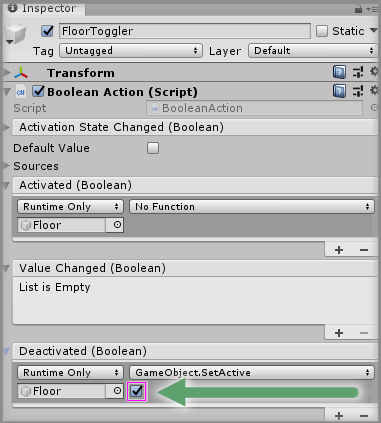
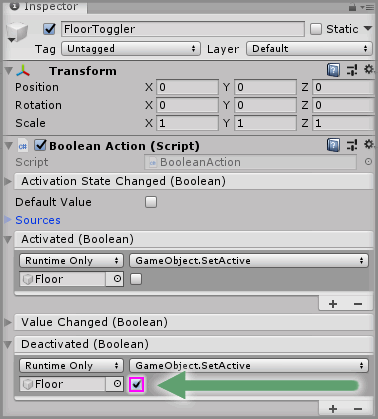
fix(HowToGuides): add missing step to proxy action doc
there was a part of step 2 missing from the document that didnt show
the function that needed to be selected. a couple of the images were
tidied up so that they didnt look as stretched.

diff --git a/Documentation/HowToGuides/CreatingProxyActionsAndChainingActions/README.md b/Documentation/HowToGuides/CreatingProxyActionsAndChainingActions/README.md
@@ -33,6 +33,10 @@ Click the `+` symbol in the bottom right corner of the `Activated` event paramet
 
 ![Creating The Boolean](assets/images/CreatingTheBoolean.png)
 
+Select a `Function` to perform when the `Activated` event is emitted. For this example, select `GameObject -> SetActive(bool)` (be sure not to select `Dynamic bool - SetActive` for this example).
+
+![Set Activated Listener To Game Object SetActive Action](assets/images/SetActivatedListenerToGameObjectSetActiveAction.png)
+
 ### Step 3
 
 Do the same as Step 2 but for the `Deactivated` event parameter in the `Boolean Action` component, but tick the checkbox under the `GameObject.SetActive` function.
